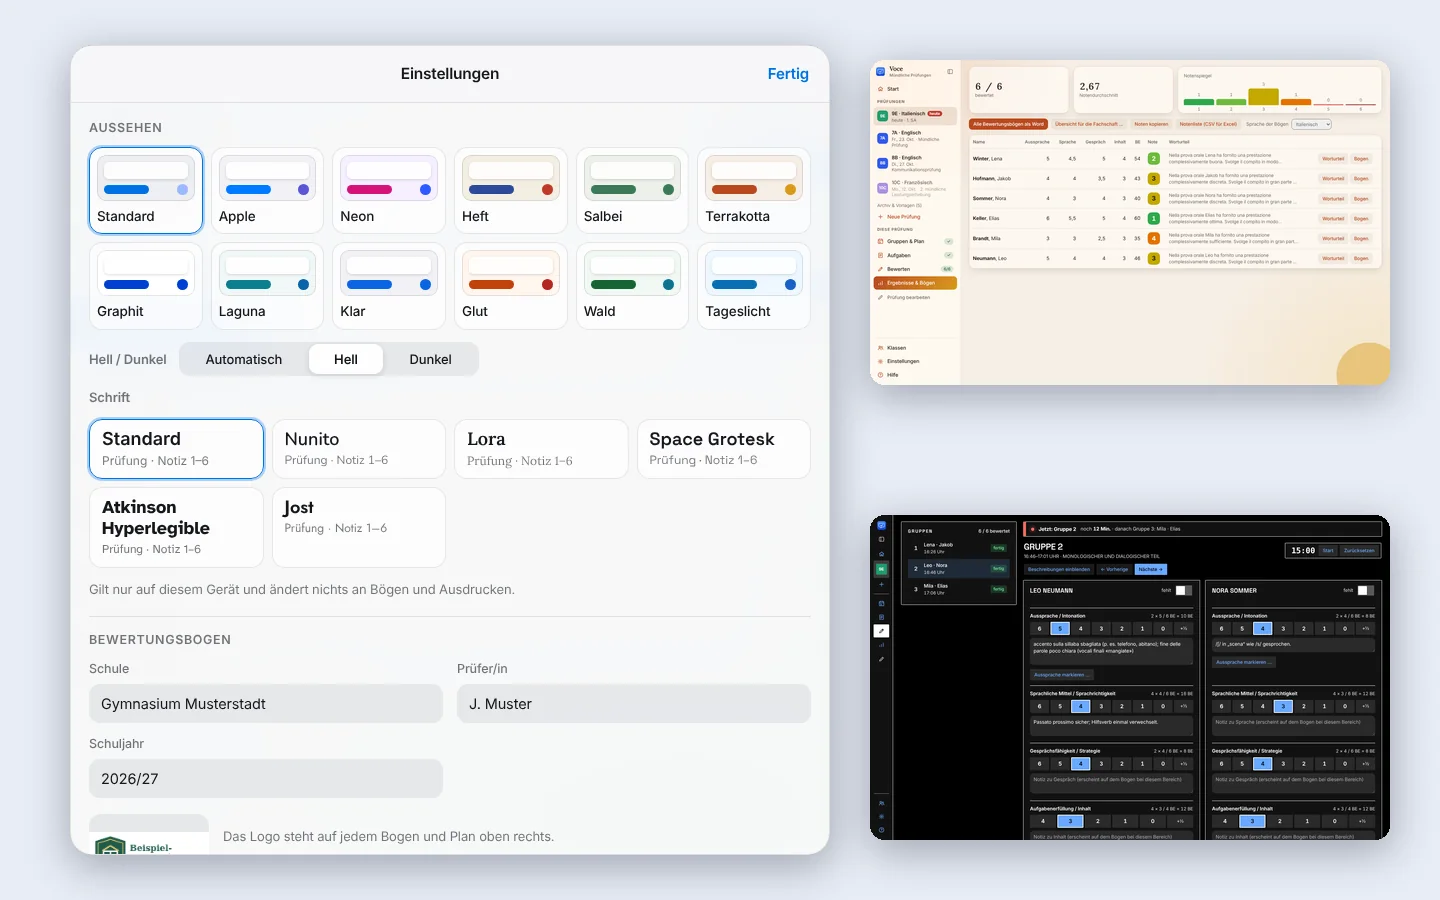
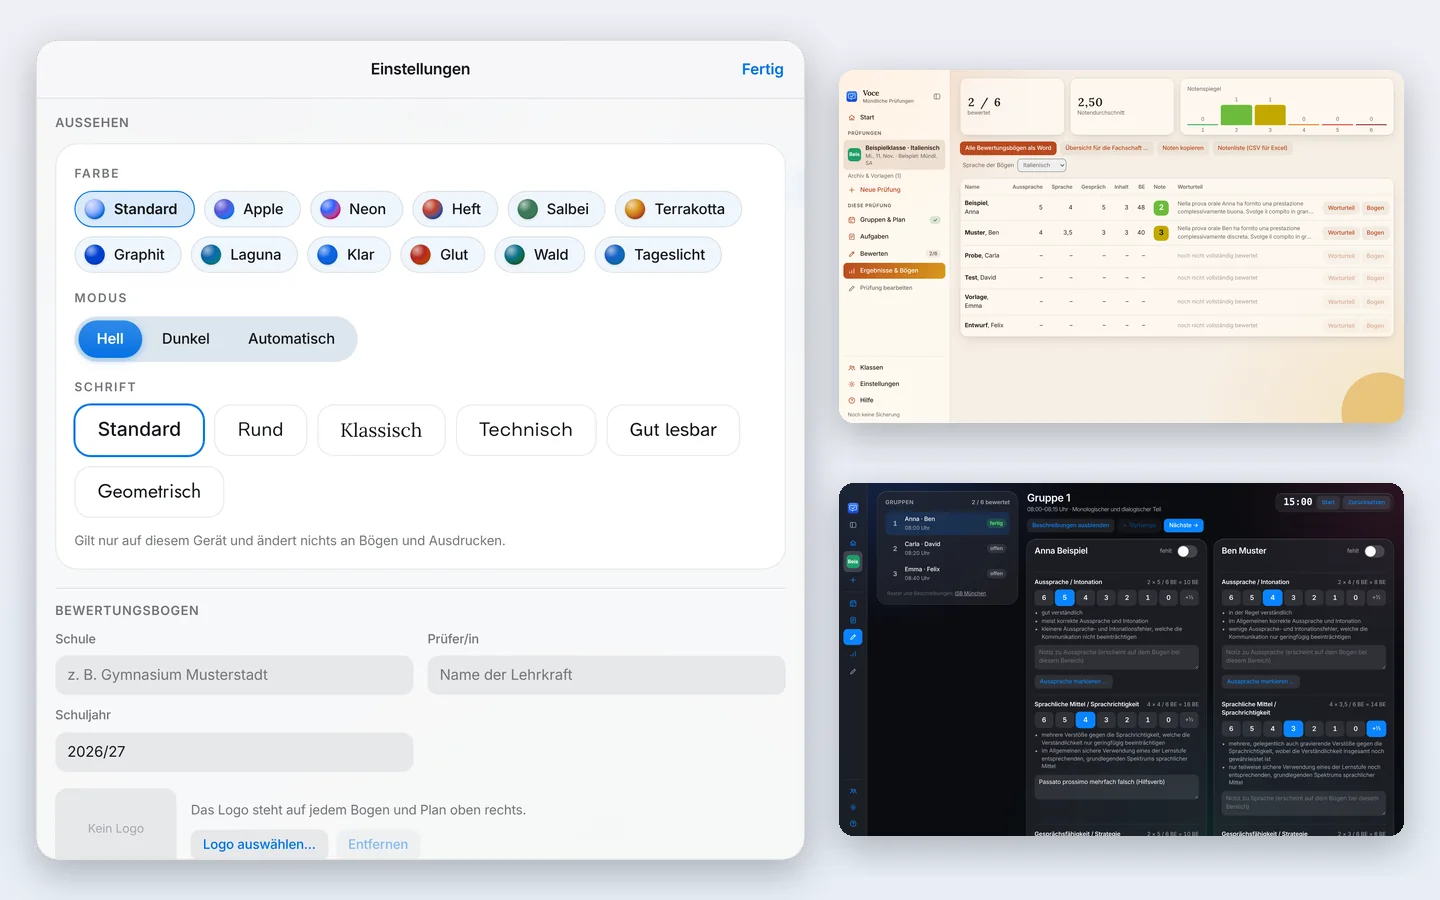
Voce-Seite: Bild „Aussehen“ aus 1.8.1 (Farbpillen, Modus-Schalter, Schrift-Kacheln)
Claude-Session: https://claude.ai/code/session_01EyFA8mhJYUs7GoTtbSxCbK

diff --git a/voce/index.html b/voce/index.html
@@ -47,8 +47,8 @@
 <div class="pic"><img src="../assets/img/voce-ergebnisse.webp?v=73d36fa0" alt="Voce: Ergebnisse mit Punkten je Bereich, Note, Notenspiegel und Worturteil für alle Prüflinge" width="1440" height="900" loading="lazy" decoding="async"></div></div><div class="fx"><div class="tx"><h2>Ein Bogen pro Schüler</h2><p>Kopfzeile mit Schullogo, Punkte je Bereich mit den Beschreibungen des Rasters, Ihre Bemerkungen, Worturteil, Notenschlüssel und Unterschriftenfeld. Als Word-Datei, die Sie vor dem Druck noch anpassen können.</p><ul class="ticks"><li>Alle Bögen auf einmal oder einzeln</li><li>Sprache des Bogens frei wählbar</li></ul></div>
 <div class="pic t"><img class="narrow" src="../assets/img/voce-bogen.webp?v=4b8b00c0" alt="Ausgefüllter Bewertungsbogen mit Schullogo für eine mündliche Schulaufgabe in Italienisch" width="910" height="1287" loading="lazy" decoding="async"></div></div><div class="fx rev"><div class="tx"><h2>Karten, Pläne und Aushänge in sieben Designs</h2><p>Aufgabenkarten und Prüferblätter, Prüfungsplan und Aushang für die Tür: Sie wählen das Design, A4 oder A5 (zwei Karten pro Blatt) und sehen vor dem Speichern eine Vorschau. „Nüchtern“ folgt der Tabelle des ISB, andere sind moderner oder freundlicher für die Unterstufe.</p><ul class="ticks"><li>Monolog mit Bild, Dialog mit Rollenkarten, Karten in der Prüfungssprache</li><li>Plan für Prüflinge oder für die Lehrkraft (mit Aufgaben), Aushang wahlweise ohne Namen</li><li>Als PDF oder Word</li></ul></div>
 <div class="pic"><img src="../assets/img/voce-designs.webp?v=7ee3e45e" alt="Aufgabenkarte in vier der sieben Designs: Modern, Klassisch, Seitenrand und Freundlich" width="1440" height="580" loading="lazy" decoding="async"></div></div><div class="fx"><div class="tx"><h2>Immer den Überblick</h2><p>Der Start-Bildschirm zeigt die nächste Prüfung und was dafür noch fehlt: Gruppen, Aufgaben, Bewertung. Frühere Prüfungen liegen im Archiv und dienen als Vorlage, die Aufgaben und der Ablauf werden übernommen, Gruppen und Noten bleiben leer.</p><ul class="ticks"><li>Seitenleiste mit allen Prüfungen nach Datum, „heute“ ist markiert</li><li>Suche im Archiv nach Klasse, Titel, Jahrgangsstufe und Fach</li></ul></div>
-<div class="pic"><img src="../assets/img/voce-start.webp?v=d5350366" alt="Voce: Start-Bildschirm mit der nächsten Prüfung, Status der Vorbereitung und weiteren Prüfungen" width="1440" height="900" loading="lazy" decoding="async"></div></div><div class="fx rev"><div class="tx"><h2>Ihr Programm, Ihre Farben</h2><p>Zwölf Farbwelten, hell, dunkel oder automatisch, dazu mehrere Schriften, darunter eine besonders gut lesbare. Das gilt nur für dieses Gerät und ändert nichts an Bögen und Ausdrucken.</p></div>
-<div class="pic t"><img src="../assets/img/voce-aussehen.webp?v=9ec32e86" alt="Voce: Einstellungen mit zwölf Farbwelten, daneben die Ergebnisse in Terrakotta und das Bewerten im dunklen Modus" width="1440" height="900" loading="lazy" decoding="async"></div></div><section class="s"><h2>Und außerdem</h2><div class="grid"><div><h3>Klassen einlesen</h3><p>Aus PDF, Excel oder CSV, als Datei „theis-Klassen“ aus Libretto oder aus einer Gruppo-Sicherung. Sie sehen, was neu ist, und übernehmen nur, was Sie ankreuzen.</p></div><div><h3>Prüfungsplan</h3><p>Paare oder Gruppen per Zufall oder per Ziehen, Zeiten automatisch. Pausen fügen Sie ein und verschieben sie mit der Maus.</p></div><div><h3>Aufgaben verteilen</h3><p>Monolog- und Dialog-Aufgaben anlegen und automatisch auf die Gruppen verteilen. Jede Zuordnung bleibt änderbar.</p></div><div><h3>Lokal und gesichert</h3><p>Alle Daten bleiben auf dem Rechner, mit Sicherungen in einem Ordner Ihrer Wahl. Es gibt kein Konto.</p></div><div><h3>KI nur auf Wunsch</h3><p>Eine Formulierungshilfe mit KI gibt es nur, wenn Sie sie selbst einrichten. Standardmäßig ist sie aus.</p></div><div><h3>Hilfe eingebaut</h3><p>Eine bebilderte Anleitung gehört zum Programm, auch ohne Internet.</p></div></div></section><section class="s" id="video" style="scroll-margin-top:90px"><h2>Voce in knapp drei Minuten</h2><p class="lead">Aussehen und Schule einrichten, Klassenliste einlesen, Prüfung und Plan, Aufgabenkarten in verschiedenen Designs, Bewerten am Prüfungstag, Aussprache-Notiz, Worturteil und fertiger Bewertungsbogen. Ohne Ton, mit Untertiteln. Alle Namen sind erfunden.</p>
+<div class="pic"><img src="../assets/img/voce-start.webp?v=d5350366" alt="Voce: Start-Bildschirm mit der nächsten Prüfung, Status der Vorbereitung und weiteren Prüfungen" width="1440" height="900" loading="lazy" decoding="async"></div></div><div class="fx rev"><div class="tx"><h2>Ihr Programm, Ihre Farben</h2><p>Zwölf Farbwelten, hell, dunkel oder automatisch, dazu sechs Schriften, darunter eine besonders gut lesbare. Jede Schrift zeigt sich in der Auswahl gleich in ihrer eigenen Form. Das gilt nur für dieses Gerät und ändert nichts an Bögen und Ausdrucken.</p></div>
+<div class="pic t"><img src="../assets/img/voce-aussehen.webp?v=b7148561" alt="Voce: Einstellungen mit zwölf Farbwelten, daneben die Ergebnisse in Terrakotta und das Bewerten im dunklen Modus" width="1440" height="900" loading="lazy" decoding="async"></div></div><section class="s"><h2>Und außerdem</h2><div class="grid"><div><h3>Klassen einlesen</h3><p>Aus PDF, Excel oder CSV, als Datei „theis-Klassen“ aus Libretto oder aus einer Gruppo-Sicherung. Sie sehen, was neu ist, und übernehmen nur, was Sie ankreuzen.</p></div><div><h3>Prüfungsplan</h3><p>Paare oder Gruppen per Zufall oder per Ziehen, Zeiten automatisch. Pausen fügen Sie ein und verschieben sie mit der Maus.</p></div><div><h3>Aufgaben verteilen</h3><p>Monolog- und Dialog-Aufgaben anlegen und automatisch auf die Gruppen verteilen. Jede Zuordnung bleibt änderbar.</p></div><div><h3>Lokal und gesichert</h3><p>Alle Daten bleiben auf dem Rechner, mit Sicherungen in einem Ordner Ihrer Wahl. Es gibt kein Konto.</p></div><div><h3>KI nur auf Wunsch</h3><p>Eine Formulierungshilfe mit KI gibt es nur, wenn Sie sie selbst einrichten. Standardmäßig ist sie aus.</p></div><div><h3>Hilfe eingebaut</h3><p>Eine bebilderte Anleitung gehört zum Programm, auch ohne Internet.</p></div></div></section><section class="s" id="video" style="scroll-margin-top:90px"><h2>Voce in knapp drei Minuten</h2><p class="lead">Aussehen und Schule einrichten, Klassenliste einlesen, Prüfung und Plan, Aufgabenkarten in verschiedenen Designs, Bewerten am Prüfungstag, Aussprache-Notiz, Worturteil und fertiger Bewertungsbogen. Ohne Ton, mit Untertiteln. Alle Namen sind erfunden.</p>
 <div class="vid"><video controls playsinline preload="none" poster="../assets/img/viva-demo-poster.webp?v=e6554821" width="1280" height="800" aria-label="Video: Voce in knapp drei Minuten"><source src="../assets/video/viva-demo.mp4?v=91a5103d" type="video/mp4"></video></div></section><section class="s inst" id="laden" style="scroll-margin-top:90px"><h2>Herunterladen und einrichten</h2><div class="seg" role="tablist" aria-label="Gerät"><button type="button" role="tab" aria-selected="true" data-t="mac">Mac</button><button type="button" role="tab" aria-selected="false" data-t="win">Windows</button><button type="button" role="tab" aria-selected="false" data-t="upd">Update</button></div><div data-p="mac"><div class=btns><a class="btn" href="https://github.com/theisjulian/app/releases/download/1.8.1/Voce-Mac.zip">Für Mac laden</a><a class="btn sec" href="https://github.com/theisjulian/app/releases/download/1.8.1/Voce-Mac-Intel.zip">Für Macs mit Intel</a><a class="btn line" href="Voce-zum-ersten-Mal-oeffnen.pdf" download>Anleitung mit Bildern (PDF)</a></div><ol><li>Die passende Version laden: Apple-Chip (M1 und neuer, 102 MB) oder Intel für ältere Macs (108 MB). Welcher Prozessor drinsteckt, zeigt das Apple-Menü unter „Über diesen Mac“.</li><li>Zip-Datei per Doppelklick öffnen und Voce in den Ordner „Programme“ ziehen.</li><li>Beim ersten Öffnen fragt macOS nach. Unter macOS 15 und neuer: Meldung mit „Fertig“ schließen, dann <i>Systemeinstellungen, Datenschutz &amp; Sicherheit</i> und ganz unten „Dennoch öffnen“. Bei älteren Versionen genügt Rechtsklick und „Öffnen“.</li><li>Schule und Aussehen einrichten, Klassenliste einlesen, erste Prüfung anlegen.</li></ol></div><div data-p="win" hidden><div class=btns><a class="btn" href="https://github.com/theisjulian/app/releases/download/1.8.1/Voce-Windows-Setup.exe">Für Windows laden</a><a class="btn line" href="Voce-zum-ersten-Mal-oeffnen.pdf" download>Anleitung mit Bildern (PDF)</a></div><ol><li>Für Windows 10 und 11, 84 MB.</li><li><i>Voce-Windows-Setup.exe</i> doppelklicken. Sie brauchen keine Administratorrechte.</li><li>Erscheint „Der Computer wurde durch Windows geschützt“: „Weitere Informationen“ und dann „Trotzdem ausführen“ wählen. Das Programm ist nicht bei Microsoft zertifiziert, aber unbedenklich.</li><li>Schule und Aussehen einrichten, Klassenliste einlesen, erste Prüfung anlegen.</li></ol></div><div data-p="upd" hidden><ol><li>Voce zeigt beim Start an, wenn es eine neue Version gibt. Die Abfrage lässt sich in den Einstellungen abschalten.</li><li>Die neue Version einfach darüber installieren. Ihre Prüfungen liegen getrennt vom Programm und bleiben erhalten.</li><li>Zusätzlich sichert Voce regelmäßig und beim Beenden. Eine eigene Sicherung in einem Ordner Ihrer Wahl richten Sie in den Einstellungen ein.</li></ol></div></section><section class="s"><div class="box"><h3>Raster und Verantwortung</h3><p class="grey" style="margin:0 0 10px">Bewertungsraster, Rastertexte und Notenschlüssel stammen vom Staatsinstitut für Schulqualität und Bildungsforschung München (ISB) und werden mit dessen freundlicher Genehmigung verwendet: <a href="https://www.isb.bayern.de/schularten/gymnasium/faecher/moderne-fremdsprachen/leistungserhebungen-und-bewertungsraster/" rel="noopener">Leistungserhebungen und Bewertungsraster beim ISB</a>. Übersetzungen der Rastertexte sind inoffiziell.</p><p class="grey" style="margin:0">Vor dem Einsatz mit echten Schülerdaten bitte die Freigabe der Schulleitung einholen (§ 10 Abs. 4 AGO) und gegebenenfalls mit der oder dem Datenschutzbeauftragten der Schule abstimmen. Die Verantwortung für die Notengebung liegt immer bei der Lehrkraft. Fragen und Rückmeldungen gern an <a class="em" data-u="hallo" data-d="theisapps.de" data-s="Voce" href="../impressum#kontakt">hallo [at] theisapps.de</a>.</p></div></section><section class="s"><a class="next n-foliva" href="../foliva/"><span><small>Nächstes Programm</small><strong>Foliva</strong><small>Arbeitsblätter</small></span><img src="../assets/img/foliva-icon.png?v=f124768c" alt="" width="76" height="76"></a></section></div>
 </main>
 <nav class="appdock" aria-label="Programme"><a href="../libretto/"><img src="../assets/img/libretto-icon.png?v=ca2144a5" alt="" width="40" height="40" style="view-transition-name:ic-libretto"><span>Libretto</span></a><a href="../voce/" aria-current="page"><img src="../assets/img/viva-icon.png?v=5c122626" alt="" width="40" height="40"><span>Voce</span></a><a href="../foliva/"><img src="../assets/img/foliva-icon.png?v=f124768c" alt="" width="40" height="40" style="view-transition-name:ic-foliva"><span>Foliva</span></a><a href="../gruppen/"><img src="../assets/img/gruppen-icon.png?v=aac21aa5" alt="" width="40" height="40" style="view-transition-name:ic-gruppo"><span>Gruppo</span></a><a href="../sportwahl/"><img src="../assets/img/sportwahl-icon.svg?v=151a6d50" alt="" width="40" height="40" style="view-transition-name:ic-sportivo"><span>Sportivo</span></a><a href="../namo/"><img src="../assets/img/namo-icon.png?v=f5d706c6" alt="" width="40" height="40" style="view-transition-name:ic-namo"><span>’namo.</span></a></nav>
